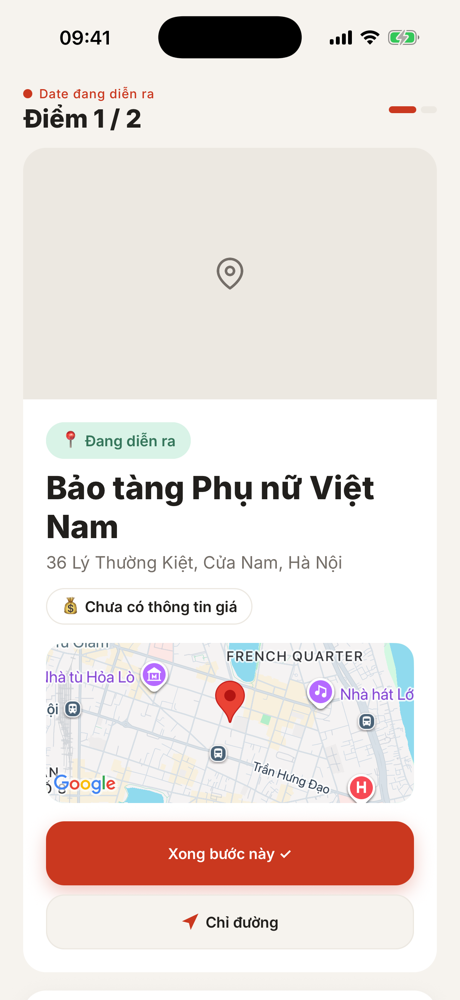
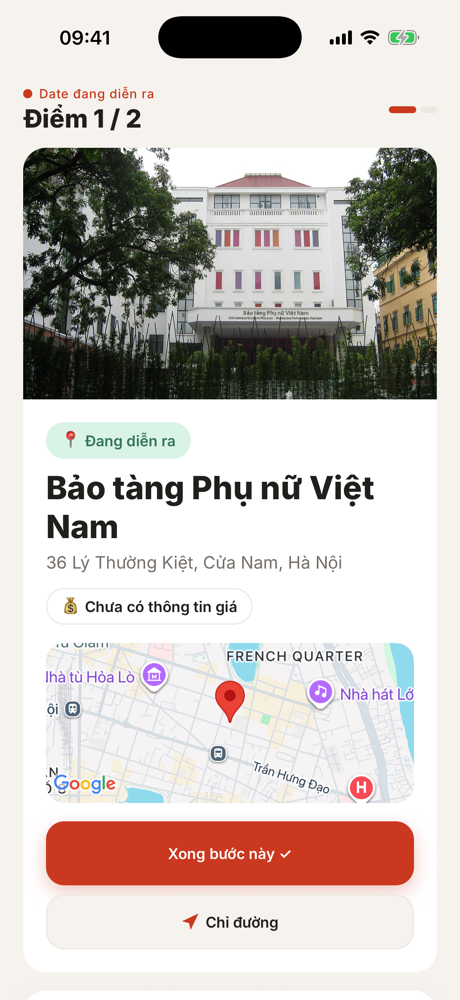
feat: place photos on every app screenshot
Result, plan and active-date shots retaken after GoGo-MobileApp#334;
credit both Commons photos now visible.

Changed region(s): [[0.0304, 0.124, 0.9739, 0.403], [0.7609, 0.713, 0.8217, 0.744]]

diff --git a/site/index.html b/site/index.html
@@ -281,7 +281,7 @@
           <li class="shot"><figure><div class="phone ios"><div class="island" aria-hidden="true"></div><div class="screen"><img src="/img/create-type.png" width="460" height="1000" loading="lazy" alt="Màn hình tạo kèo với hai lựa chọn: Hai người và Nhóm bạn"></div></div><figcaption><strong>Tạo kèo</strong>Chọn đi hai người hay cả nhóm.</figcaption></figure></li>
           <li class="shot"><figure><div class="phone ios"><div class="island" aria-hidden="true"></div><div class="screen"><img src="/img/mood.png" width="460" height="1000" loading="lazy" alt="Màn hình chọn mood, đã chọn Thư giãn và Ấm cúng"></div></div><figcaption><strong>Nêu sở thích</strong>Chọn 2–3 mood hợp với buổi đi — vài chạm là xong.</figcaption></figure></li>
           <li class="shot"><figure><div class="phone ios"><div class="island" aria-hidden="true"></div><div class="screen"><img src="/img/vote.png" width="460" height="1000" loading="lazy" alt="Thẻ bình chọn Tràng Tiền Plaza có ảnh địa điểm, với ba nút Không hợp, Thích, Rất muốn"></div></div><figcaption><strong>Bình chọn</strong>Mỗi người tự chọn Không hợp, Thích hoặc Rất muốn cho từng địa điểm.</figcaption></figure></li>
-          <li class="shot"><figure><div class="phone ios"><div class="island" aria-hidden="true"></div><div class="screen"><img src="/img/match.png" width="460" height="1000" loading="lazy" alt="Kết quả nhóm: Bảo tàng Phụ nữ Việt Nam được 3/3 người thích, kèm lý do và các lựa chọn khác"></div></div><figcaption><strong>Kết quả chung</strong>Địa điểm cả nhóm thích nhất, kèm lý do GoGo chọn.</figcaption></figure></li>
+          <li class="shot"><figure><div class="phone ios"><div class="island" aria-hidden="true"></div><div class="screen"><img src="/img/match.png" width="460" height="1000" loading="lazy" alt="Kết quả nhóm có ảnh địa điểm: Bảo tàng Phụ nữ Việt Nam được 3/3 người thích, kèm lý do và các lựa chọn khác"></div></div><figcaption><strong>Kết quả chung</strong>Địa điểm cả nhóm thích nhất, kèm lý do GoGo chọn.</figcaption></figure></li>
           <li class="shot"><figure><div class="phone ios"><div class="island" aria-hidden="true"></div><div class="screen"><img src="/img/plan.png" width="460" height="1000" loading="lazy" alt="Kế hoạch nhóm 3 người: điểm 1 Bảo tàng Phụ nữ Việt Nam đã khoá, 6 phút di chuyển tới điểm 2, tổng thời gian 3 giờ 18 phút"></div></div><figcaption><strong>Lịch trình nhóm</strong>Điểm dừng theo thứ tự và thời gian di chuyển; điểm đã khoá được giữ khi tạo lại.</figcaption></figure></li>
           <li class="shot"><figure><div class="phone ios"><div class="island" aria-hidden="true"></div><div class="screen"><img src="/img/active.png" width="460" height="1000" loading="lazy" alt="Màn hình buổi đi đang diễn ra: điểm 1 trên 2 là Bảo tàng Phụ nữ Việt Nam, bản đồ, nút Xong bước này và Chỉ đường"></div></div><figcaption><strong>Trong ngày đi chơi</strong>Từng điểm một, có bản đồ và chỉ đường.</figcaption></figure></li>
           <li class="shot"><figure><div class="phone ios"><div class="island" aria-hidden="true"></div><div class="screen"><img src="/img/done.png" width="460" height="1000" loading="lazy" alt="Màn hình kết thúc buổi đi: Bảo tàng Phụ nữ Việt Nam và Tràng Tiền Plaza đã hoàn thành, nút đánh giá"></div></div><figcaption><strong>Kết thúc & đánh giá</strong>Tổng kết buổi đi, rồi mời mọi người đánh giá.</figcaption></figure></li>
@@ -360,7 +360,7 @@
   <footer>
     <div class="wrap">
       <span>© 2026 GoGo VN · Dự án startup Việt Nam · chưa có pháp nhân</span>
-      <span class="credits">Ảnh địa điểm trong ảnh chụp app: <a href="https://commons.wikimedia.org/wiki/File:Tr%C3%A0ng_Ti%E1%BB%81n_Plaza_-_2022-09-02_01.jpg">Tràng Tiền Plaza</a> — The Hanoian, <a href="https://creativecommons.org/licenses/by-sa/4.0/">CC BY-SA 4.0</a>, Wikimedia Commons</span>
+      <span class="credits">Ảnh địa điểm trong ảnh chụp app: <a href="https://commons.wikimedia.org/wiki/File:Tr%C3%A0ng_Ti%E1%BB%81n_Plaza_-_2022-09-02_01.jpg">Tràng Tiền Plaza</a> — The Hanoian, <a href="https://creativecommons.org/licenses/by-sa/4.0/">CC BY-SA 4.0</a>; <a href="https://commons.wikimedia.org/wiki/File:Vietnamese_Women%27s_Museum_Building.JPG">Bảo tàng Phụ nữ Việt Nam</a> — Aumusee, <a href="https://creativecommons.org/licenses/by-sa/3.0/">CC BY-SA 3.0</a>; Wikimedia Commons</span>
       <span>Hỗ trợ: <a href="mailto:support@gogo.id.vn">support@gogo.id.vn</a> · <a href="/en/" hreflang="en" lang="en">English version</a></span>
     </div>
   </footer>

diff --git a/site/en/index.html b/site/en/index.html
@@ -281,7 +281,7 @@
           <li class="shot"><figure><div class="phone ios"><div class="island" aria-hidden="true"></div><div class="screen"><img src="/img/create-type.png" width="460" height="1000" loading="lazy" alt="Create-room screen with two options: two people or a friend group"></div></div><figcaption><strong>Create a room</strong>Pick a couple or a group outing.</figcaption></figure></li>
           <li class="shot"><figure><div class="phone ios"><div class="island" aria-hidden="true"></div><div class="screen"><img src="/img/mood.png" width="460" height="1000" loading="lazy" alt="Mood picker with Chill and Cozy selected"></div></div><figcaption><strong>Share preferences</strong>Pick 2–3 moods for the outing — a few taps.</figcaption></figure></li>
           <li class="shot"><figure><div class="phone ios"><div class="island" aria-hidden="true"></div><div class="screen"><img src="/img/vote.png" width="460" height="1000" loading="lazy" alt="Voting card for Trang Tien Plaza with a photo of the place and three buttons: not for me, like, really want"></div></div><figcaption><strong>Vote</strong>Each person marks every place as Not for me, Like, or Really want.</figcaption></figure></li>
-          <li class="shot"><figure><div class="phone ios"><div class="island" aria-hidden="true"></div><div class="screen"><img src="/img/match.png" width="460" height="1000" loading="lazy" alt="Group result: Vietnamese Women's Museum liked by 3 of 3 people, with reasons and other options"></div></div><figcaption><strong>Group result</strong>The place the whole group likes most, with the reasons GoGo chose it.</figcaption></figure></li>
+          <li class="shot"><figure><div class="phone ios"><div class="island" aria-hidden="true"></div><div class="screen"><img src="/img/match.png" width="460" height="1000" loading="lazy" alt="Group result with a photo of the place: Vietnamese Women's Museum liked by 3 of 3 people, with reasons and other options"></div></div><figcaption><strong>Group result</strong>The place the whole group likes most, with the reasons GoGo chose it.</figcaption></figure></li>
           <li class="shot"><figure><div class="phone ios"><div class="island" aria-hidden="true"></div><div class="screen"><img src="/img/plan.png" width="460" height="1000" loading="lazy" alt="Plan for a group of 3: stop 1, the Vietnamese Women's Museum, locked; 6 minutes to stop 2; total time 3 hours 18 minutes"></div></div><figcaption><strong>Group itinerary</strong>Stops in order with travel time; locked stops stay when you regenerate.</figcaption></figure></li>
           <li class="shot"><figure><div class="phone ios"><div class="island" aria-hidden="true"></div><div class="screen"><img src="/img/active.png" width="460" height="1000" loading="lazy" alt="Outing in progress: stop 1 of 2, the Vietnamese Women's Museum, with a map, a done button and directions"></div></div><figcaption><strong>On the day</strong>One stop at a time, with map and directions.</figcaption></figure></li>
           <li class="shot"><figure><div class="phone ios"><div class="island" aria-hidden="true"></div><div class="screen"><img src="/img/done.png" width="460" height="1000" loading="lazy" alt="End-of-outing screen: Vietnamese Women's Museum and Trang Tien Plaza completed, with a review button"></div></div><figcaption><strong>Wrap-up & review</strong>A summary of the outing, then everyone is invited to review.</figcaption></figure></li>
@@ -360,7 +360,7 @@
   <footer>
     <div class="wrap">
       <span>© 2026 GoGo VN · A Vietnamese startup project · no legal entity yet</span>
-      <span class="credits">Place photo in the app screenshots: <a href="https://commons.wikimedia.org/wiki/File:Tr%C3%A0ng_Ti%E1%BB%81n_Plaza_-_2022-09-02_01.jpg">Tràng Tiền Plaza</a> — The Hanoian, <a href="https://creativecommons.org/licenses/by-sa/4.0/">CC BY-SA 4.0</a>, Wikimedia Commons</span>
+      <span class="credits">Place photos in the app screenshots: <a href="https://commons.wikimedia.org/wiki/File:Tr%C3%A0ng_Ti%E1%BB%81n_Plaza_-_2022-09-02_01.jpg">Tràng Tiền Plaza</a> — The Hanoian, <a href="https://creativecommons.org/licenses/by-sa/4.0/">CC BY-SA 4.0</a>; <a href="https://commons.wikimedia.org/wiki/File:Vietnamese_Women%27s_Museum_Building.JPG">Bảo tàng Phụ nữ Việt Nam</a> — Aumusee, <a href="https://creativecommons.org/licenses/by-sa/3.0/">CC BY-SA 3.0</a>; Wikimedia Commons</span>
       <span>Support: <a href="mailto:support@gogo.id.vn">support@gogo.id.vn</a> · <a href="/" hreflang="vi" lang="vi">Phiên bản tiếng Việt</a></span>
     </div>
   </footer>

diff --git a/src/template.html b/src/template.html
@@ -354,7 +354,7 @@
   <footer>
     <div class="wrap">
       <span>© 2026 GoGo VN · {{foot.project}}</span>
-      <span class="credits">{{foot.photo}} <a href="https://commons.wikimedia.org/wiki/File:Tr%C3%A0ng_Ti%E1%BB%81n_Plaza_-_2022-09-02_01.jpg">Tràng Tiền Plaza</a> — The Hanoian, <a href="https://creativecommons.org/licenses/by-sa/4.0/">CC BY-SA 4.0</a>, Wikimedia Commons</span>
+      <span class="credits">{{foot.photo}} <a href="https://commons.wikimedia.org/wiki/File:Tr%C3%A0ng_Ti%E1%BB%81n_Plaza_-_2022-09-02_01.jpg">Tràng Tiền Plaza</a> — The Hanoian, <a href="https://creativecommons.org/licenses/by-sa/4.0/">CC BY-SA 4.0</a>; <a href="https://commons.wikimedia.org/wiki/File:Vietnamese_Women%27s_Museum_Building.JPG">Bảo tàng Phụ nữ Việt Nam</a> — Aumusee, <a href="https://creativecommons.org/licenses/by-sa/3.0/">CC BY-SA 3.0</a>; Wikimedia Commons</span>
       <span>{{foot.support}} <a href="mailto:{{@mail}}">{{@mail}}</a> · <a href="{{@otherPath}}" hreflang="{{@otherLang}}" lang="{{@otherLang}}">{{foot.lang}}</a></span>
     </div>
   </footer>
